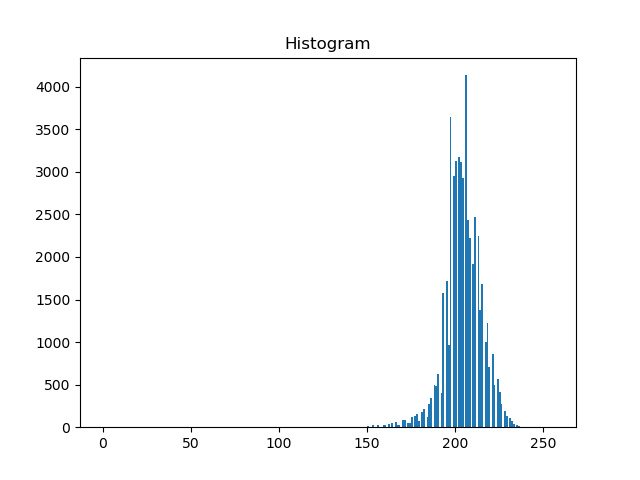
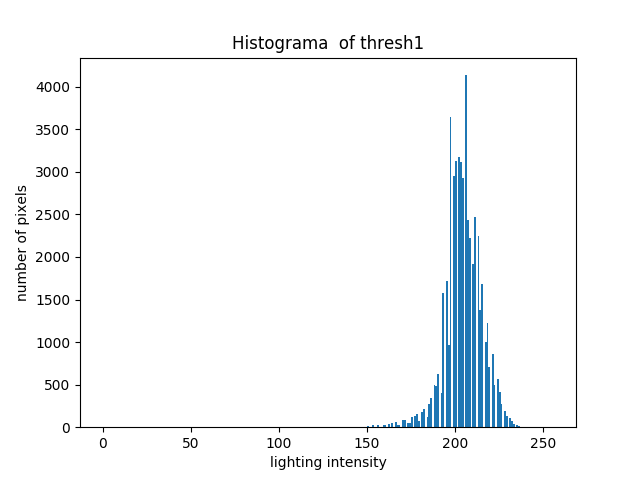
Detalles

diff --git a/Practica 1/ejercicio3.py b/Practica 1/ejercicio3.py
@@ -9,18 +9,21 @@ gray = cv.cvtColor(image, cv.COLOR_BGR2GRAY)
 cv.imshow('Original Imagen',image)
 
 # Generating greyscale histogram 
-plt.title("Greyscale Histogram") 
+plt.title("Greyscale Histogram thresh3") 
 plt.hist(gray.ravel(),256,[0,256]);
+plt.xlabel('lighting intensity')
+plt.ylabel('number of pixels')
 plt.savefig('greyscale_histogram3.png')
 plt.show()
 
 # Generating color histogram 
-plt.title("Color Histogram") 
+plt.title("Color Histogram thresh3") 
 for i, col in enumerate(['b', 'g', 'r']):
     hist = cv.calcHist([image], [i], None, [256], [0, 256])
     plt.plot(hist, color = col)
     plt.xlim([0, 256])
-    
+plt.xlabel('lighting intensity')
+plt.ylabel('number of pixels')
 plt.savefig('color_histogram3.png')    
 plt.show()
 

diff --git a/Practica 1/ejercicio2.py b/Practica 1/ejercicio2.py
@@ -8,8 +8,10 @@ image = cv.imread('thresh2.png', 0)
 cv.imshow('Original Imagen',image)
 
 # Generating histogram
-plt.title("Histogram") 
+plt.title("Histogram of thresh2") 
 plt.hist(image.ravel(),256,[0,256]); 
+plt.xlabel('lighting intensity')
+plt.ylabel('number of pixels')
 plt.savefig('histogram2.png')
 plt.show()
 
